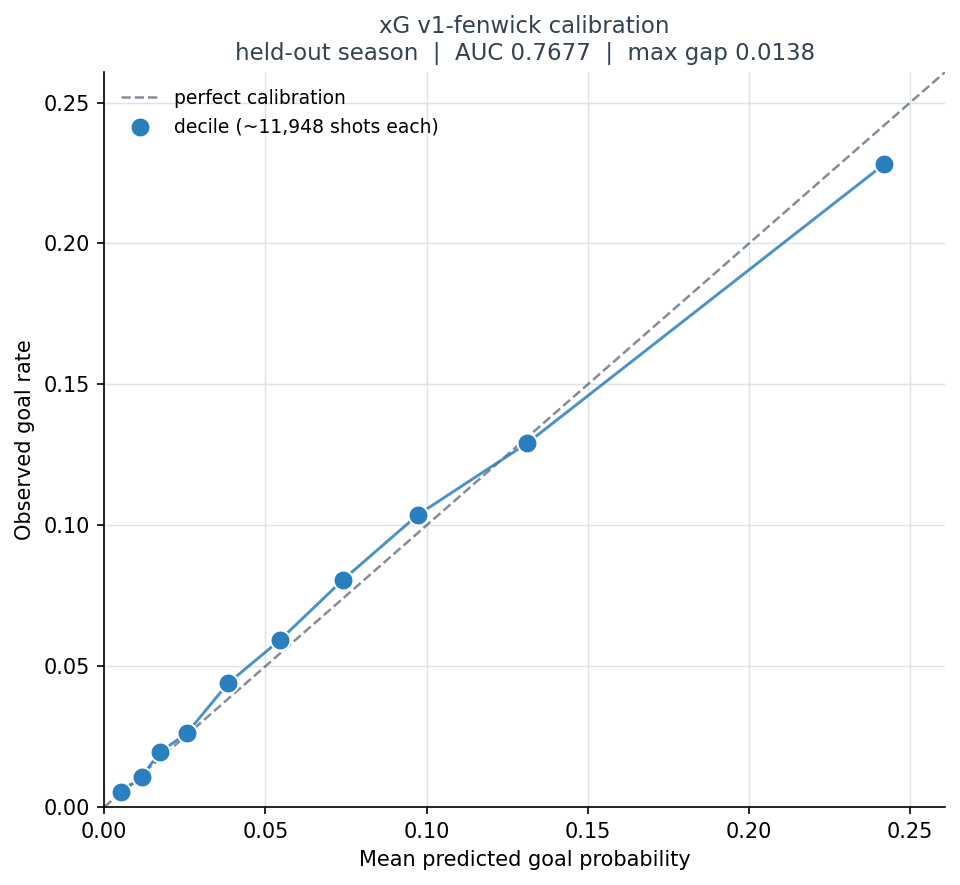
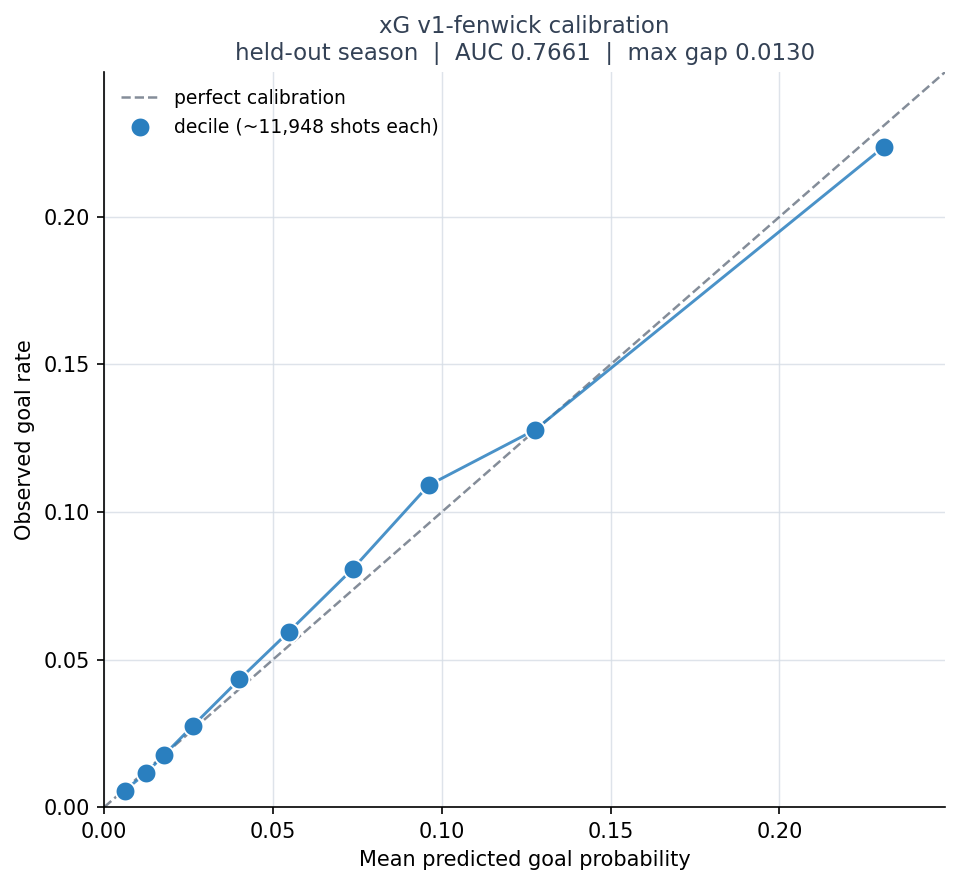
update build features fenwick

diff --git a/results/leaderboard.md b/results/leaderboard.md
@@ -27,7 +27,7 @@ Shots on goal plus missed shots. Shootout attempts are excluded, as are events l
 
 | Version | Test AUC | PR-AUC | Log loss | Brier | Max calib. gap | O/E | Calib. slope | Commit |
 |---|---|---|---|---|---|---|---|---|
-| **v1-fenwick** | 0.7677 | 0.2464 | 0.2204 | 0.0596 | 0.0138 | 1.013 | 0.960 | `aeb82df` |
+| **v1-fenwick** | 0.7661 | 0.2438 | 0.2208 | 0.0596 | 0.0130 | 1.031 | 0.986 | `2ee3bdd` |
 
 ## What each version changed
 
